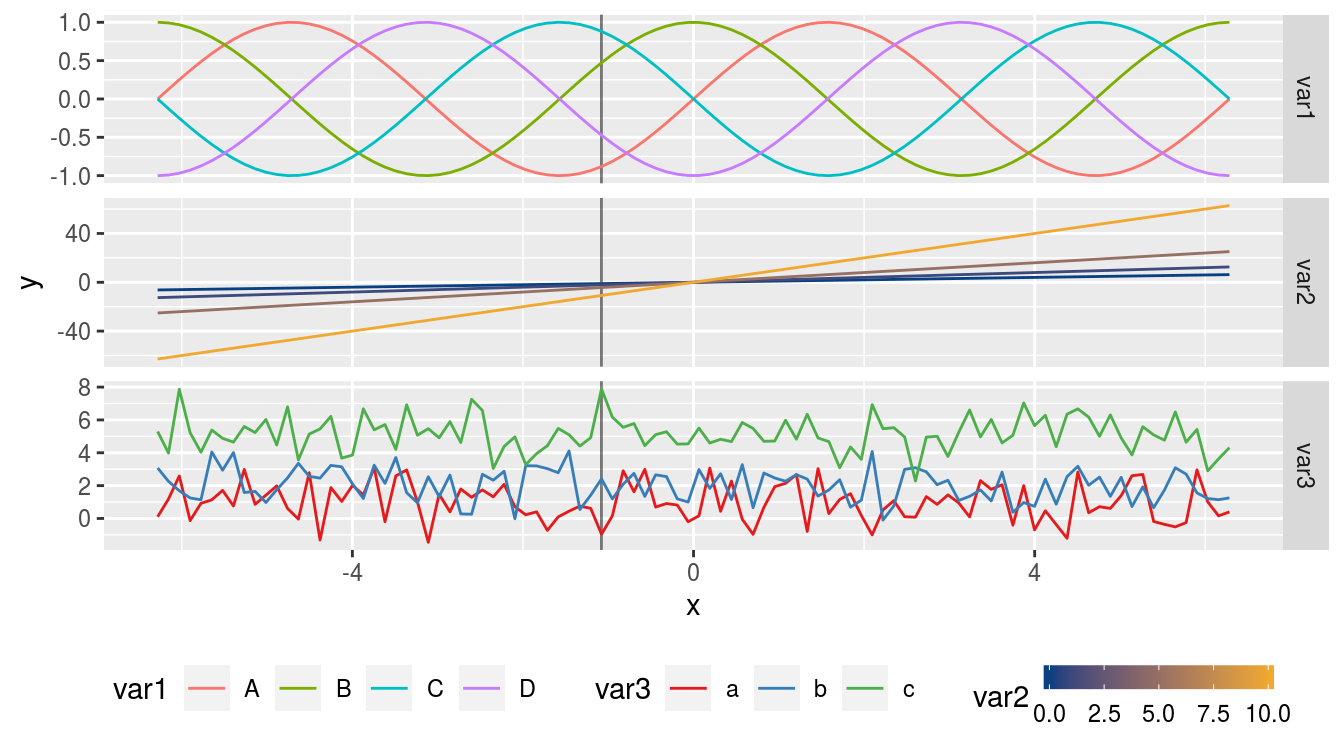
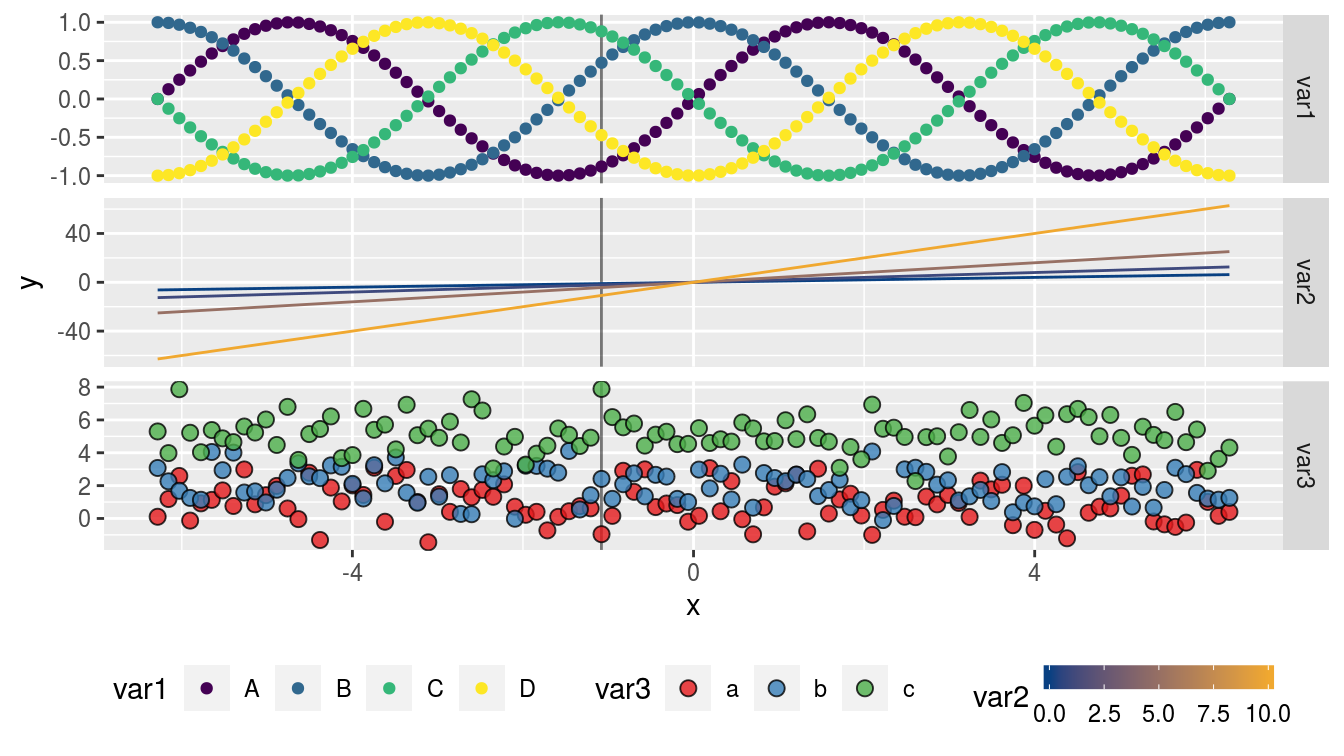
include factory_geom_point

diff --git a/docs/articles/geomfactory.html b/docs/articles/geomfactory.html
@@ -31,7 +31,7 @@
       </button>
       <span class="navbar-brand">
         <a class="navbar-link" href="../index.html">geomfactory</a>
-        <span class="version label label-default" data-toggle="tooltip" data-placement="bottom" title="Released version">0.0.1.0</span>
+        <span class="version label label-default" data-toggle="tooltip" data-placement="bottom" title="Released version">0.0.2.0</span>
       </span>
     </div>
 
@@ -91,21 +91,22 @@
 <p>The aim is <em>NOT to overlay</em> several unrelated data sets, but to use the ggplot facet functions to put them in the same context:</p>
 <div class="sourceCode" id="cb1"><pre class="sourceCode r"><code class="sourceCode r"><a class="sourceLine" id="cb1-1" data-line-number="1"><span class="kw"><a href="https://www.rdocumentation.org/packages/base/topics/library">library</a></span>(geomfactory)</a>
 <a class="sourceLine" id="cb1-2" data-line-number="2"><span class="kw"><a href="https://www.rdocumentation.org/packages/base/topics/ls">ls</a></span>(<span class="kw"><a href="https://www.rdocumentation.org/packages/base/topics/as.environment">as.environment</a></span>(<span class="st">"package:geomfactory"</span>))</a></code></pre></div>
-<pre><code>## [1] "factory_geom_line"</code></pre>
-<p>After loading the package, currently there is only one new function: <code><a href="../reference/factory_geom_line.html">factory_geom_line()</a></code>. This is our <em>geom_factory</em> that will create new <code>geom_line()</code> variations that will work on a alternative color scale. The function also creates according scales <code>scale_*()</code> (one discrete, one continuous) as well as the needed color-bar guide <code>guide_colourbar_*()</code>.</p>
+<pre><code>## [1] "factory_geom_line"  "factory_geom_point"</code></pre>
+<p>After loading the package, currently there are only two new functions: <code><a href="../reference/factory_geom_line.html">factory_geom_line()</a></code> &amp; <code><a href="../reference/factory_geom_point.html">factory_geom_point()</a></code>. This are our <em>geom_factorys</em> that will create new <code>geom_line()</code> (or <code>geom_point()</code>) variations that will work on a alternative color scale. The function also creates according scales <code>scale_*()</code> (one discrete, one continuous) as well as the needed color-bar guide <code>guide_colourbar_*()</code>.</p>
 <p>(<em>This might expand in the future to also include other geoms.</em>)</p>
 <div class="sourceCode" id="cb3"><pre class="sourceCode r"><code class="sourceCode r"><a class="sourceLine" id="cb3-1" data-line-number="1"><span class="kw"><a href="../reference/factory_geom_line.html">factory_geom_line</a></span>(<span class="st">'var2'</span>)</a>
 <a class="sourceLine" id="cb3-2" data-line-number="2"><span class="kw"><a href="https://www.rdocumentation.org/packages/base/topics/ls">ls</a></span>(.GlobalEnv)</a></code></pre></div>
 <pre><code>## [1] "geom_line_var2"        "GeomLine_var2"         "guide_colourbar_var2" 
 ## [4] "scale_var2_continuous" "scale_var2_manual"</code></pre>
 <p>We can do this for as may additional color scales as we need (using a different name for each scale).</p>
-<div class="sourceCode" id="cb5"><pre class="sourceCode r"><code class="sourceCode r"><a class="sourceLine" id="cb5-1" data-line-number="1"><span class="kw"><a href="../reference/factory_geom_line.html">factory_geom_line</a></span>(<span class="st">'var3'</span>)</a>
+<div class="sourceCode" id="cb5"><pre class="sourceCode r"><code class="sourceCode r"><a class="sourceLine" id="cb5-1" data-line-number="1"><span class="kw"><a href="../reference/factory_geom_point.html">factory_geom_point</a></span>(<span class="st">'var3'</span>)</a>
 <a class="sourceLine" id="cb5-2" data-line-number="2"><span class="kw"><a href="https://www.rdocumentation.org/packages/base/topics/ls">ls</a></span>(.GlobalEnv)</a></code></pre></div>
-<pre><code>##  [1] "geom_line_var2"        "GeomLine_var2"        
-##  [3] "geom_line_var3"        "GeomLine_var3"        
-##  [5] "guide_colourbar_var2"  "guide_colourbar_var3" 
-##  [7] "scale_var2_continuous" "scale_var2_manual"    
-##  [9] "scale_var3_continuous" "scale_var3_manual"</code></pre>
+<pre><code>##  [1] "geom_line_var2"          "GeomLine_var2"          
+##  [3] "geom_point_var3"         "GeomPoint_var3"         
+##  [5] "guide_colourbar_var2"    "guide_colourbar_var3"   
+##  [7] "scale_var2_continuous"   "scale_var2_manual"      
+##  [9] "scale_var3_c_continuous" "scale_var3_c_manual"    
+## [11] "scale_var3_f_continuous" "scale_var3_f_manual"</code></pre>
 </div>
 <div id="example" class="section level2">
 <h2 class="hasAnchor">
@@ -144,15 +145,21 @@
 <a class="sourceLine" id="cb8-13" data-line-number="13"><span class="st">  </span><span class="kw">gather</span>(<span class="dt">key =</span> <span class="st">'var3'</span>,<span class="dt">value =</span> <span class="st">'y'</span>,<span class="dv">2</span><span class="op">:</span><span class="dv">4</span>) <span class="op">%&gt;%</span></a>
 <a class="sourceLine" id="cb8-14" data-line-number="14"><span class="st">  </span><span class="kw">mutate</span>(<span class="dt">var =</span> <span class="st">'var3'</span>)</a></code></pre></div>
 <p>Finally, we can plot the three data sets in context while keeping their super important color scheme. We can also highlight the <em>crazy outlier</em> of the class <strong>c</strong> within <strong>var3</strong>:</p>
-<div class="sourceCode" id="cb9"><pre class="sourceCode r"><code class="sourceCode r"><a class="sourceLine" id="cb9-1" data-line-number="1"><span class="kw">ggplot</span>(data1, <span class="kw">aes</span>(x,y))<span class="op">+</span></a>
-<a class="sourceLine" id="cb9-2" data-line-number="2"><span class="st">  </span><span class="kw">geom_vline</span>(<span class="dt">xintercept =</span> <span class="fl">-1.08</span>, <span class="dt">color =</span> <span class="kw"><a href="https://www.rdocumentation.org/packages/grDevices/topics/rgb">rgb</a></span>(<span class="dv">0</span>,<span class="dv">0</span>,<span class="dv">0</span>,.<span class="dv">5</span>))<span class="op">+</span></a>
-<a class="sourceLine" id="cb9-3" data-line-number="3"><span class="st">  </span><span class="kw">geom_line</span>(<span class="kw">aes</span>(<span class="dt">color =</span> var1))<span class="op">+</span></a>
-<a class="sourceLine" id="cb9-4" data-line-number="4"><span class="st">  </span><span class="kw">geom_line_var2</span>(<span class="dt">data =</span> data2, <span class="kw">aes</span>(<span class="dt">var2 =</span> var2, <span class="dt">group =</span> var2))<span class="op">+</span></a>
-<a class="sourceLine" id="cb9-5" data-line-number="5"><span class="st">  </span><span class="kw">geom_line_var3</span>(<span class="dt">data =</span> data3, <span class="kw">aes</span>(<span class="dt">var3 =</span> var3))<span class="op">+</span></a>
-<a class="sourceLine" id="cb9-6" data-line-number="6"><span class="st">  </span><span class="kw">scale_var3_manual</span>(<span class="dt">values =</span> RColorBrewer<span class="op">::</span><span class="kw"><a href="https://www.rdocumentation.org/packages/RColorBrewer/topics/ColorBrewer">brewer.pal</a></span>(<span class="dv">3</span>,<span class="st">'Set1'</span>)) <span class="op">+</span></a>
-<a class="sourceLine" id="cb9-7" data-line-number="7"><span class="st">  </span><span class="kw">guides</span>(<span class="dt">var2 =</span> <span class="kw">guide_colourbar_var2</span>(<span class="dt">barheight =</span> <span class="kw">unit</span>(<span class="dv">9</span>,<span class="st">'pt'</span>)))<span class="op">+</span></a>
-<a class="sourceLine" id="cb9-8" data-line-number="8"><span class="st">  </span><span class="kw">facet_grid</span>(var<span class="op">~</span>.,<span class="dt">scales =</span> <span class="st">'free'</span>)<span class="op">+</span></a>
-<a class="sourceLine" id="cb9-9" data-line-number="9"><span class="st">  </span><span class="kw">theme</span>(<span class="dt">legend.position =</span> <span class="st">'bottom'</span>)</a></code></pre></div>
+<div class="sourceCode" id="cb9"><pre class="sourceCode r"><code class="sourceCode r"><a class="sourceLine" id="cb9-1" data-line-number="1">clr_<span class="dv">1</span> &lt;-<span class="st"> </span>viridis<span class="op">::</span><span class="kw"><a href="https://www.rdocumentation.org/packages/viridis/topics/reexports">viridis</a></span>(<span class="dv">4</span>)</a>
+<a class="sourceLine" id="cb9-2" data-line-number="2">clr_<span class="dv">3</span> &lt;-<span class="st"> </span>RColorBrewer<span class="op">::</span><span class="kw"><a href="https://www.rdocumentation.org/packages/RColorBrewer/topics/ColorBrewer">brewer.pal</a></span>(<span class="dv">3</span>,<span class="st">'Set1'</span>)</a>
+<a class="sourceLine" id="cb9-3" data-line-number="3"></a>
+<a class="sourceLine" id="cb9-4" data-line-number="4"><span class="kw">ggplot</span>(data1, <span class="kw">aes</span>(x,y))<span class="op">+</span></a>
+<a class="sourceLine" id="cb9-5" data-line-number="5"><span class="st">  </span><span class="kw">geom_vline</span>(<span class="dt">xintercept =</span> <span class="fl">-1.08</span>, <span class="dt">color =</span> <span class="kw"><a href="https://www.rdocumentation.org/packages/grDevices/topics/rgb">rgb</a></span>(<span class="dv">0</span>,<span class="dv">0</span>,<span class="dv">0</span>,.<span class="dv">5</span>))<span class="op">+</span></a>
+<a class="sourceLine" id="cb9-6" data-line-number="6"><span class="st">  </span><span class="kw">geom_point</span>(<span class="kw">aes</span>(<span class="dt">color =</span> var1))<span class="op">+</span></a>
+<a class="sourceLine" id="cb9-7" data-line-number="7"><span class="st">  </span><span class="kw">geom_line_var2</span>(<span class="dt">data =</span> data2, <span class="kw">aes</span>(<span class="dt">var2 =</span> var2, <span class="dt">group =</span> var2))<span class="op">+</span></a>
+<a class="sourceLine" id="cb9-8" data-line-number="8"><span class="st">  </span><span class="kw">geom_point_var3</span>(<span class="dt">data =</span> data3, <span class="kw">aes</span>(<span class="dt">var3_f =</span> var3), </a>
+<a class="sourceLine" id="cb9-9" data-line-number="9">                  <span class="dt">shape =</span> <span class="dv">21</span>, <span class="dt">size =</span> <span class="fl">2.5</span>,<span class="dt">alpha =</span> <span class="fl">.8</span>)<span class="op">+</span></a>
+<a class="sourceLine" id="cb9-10" data-line-number="10"><span class="st">  </span><span class="kw">scale_color_manual</span>(<span class="dt">values =</span> clr_<span class="dv">1</span>)<span class="op">+</span></a>
+<a class="sourceLine" id="cb9-11" data-line-number="11"><span class="st">  </span><span class="kw">scale_var3_f_manual</span>(<span class="dt">values =</span> clr_<span class="dv">3</span>) <span class="op">+</span></a>
+<a class="sourceLine" id="cb9-12" data-line-number="12"><span class="st">  </span><span class="kw">guides</span>(<span class="dt">var2 =</span> <span class="kw">guide_colourbar_var2</span>(<span class="dt">barheight =</span> <span class="kw">unit</span>(<span class="dv">9</span>,<span class="st">'pt'</span>)),</a>
+<a class="sourceLine" id="cb9-13" data-line-number="13">         <span class="dt">var3_f =</span> <span class="kw">guide_legend</span>(<span class="dt">override.aes =</span> <span class="kw"><a href="https://www.rdocumentation.org/packages/base/topics/list">list</a></span>(<span class="dt">fill =</span> clr_<span class="dv">3</span>)))<span class="op">+</span></a>
+<a class="sourceLine" id="cb9-14" data-line-number="14"><span class="st">  </span><span class="kw">facet_grid</span>(var<span class="op">~</span>.,<span class="dt">scales =</span> <span class="st">'free'</span>)<span class="op">+</span></a>
+<a class="sourceLine" id="cb9-15" data-line-number="15"><span class="st">  </span><span class="kw">theme</span>(<span class="dt">legend.position =</span> <span class="st">'bottom'</span>)</a></code></pre></div>
 <p><img src="geomfactory_files/figure-html/unnamed-chunk-7-1.png" width="672"></p>
 <hr>
 <center>

diff --git a/docs/reference/factory_geom_point.html b/docs/reference/factory_geom_point.html
@@ -6,7 +6,7 @@
 <meta http-equiv="X-UA-Compatible" content="IE=edge">
 <meta name="viewport" content="width=device-width, initial-scale=1.0">
 
-<title>Articles • geomfactory</title>
+<title>Create an alternative color aesthetic for geom_point — factory_geom_point • geomfactory</title>
 
 <!-- jquery -->
 <script src="https://cdnjs.cloudflare.com/ajax/libs/jquery/3.3.1/jquery.min.js" integrity="sha256-FgpCb/KJQlLNfOu91ta32o/NMZxltwRo8QtmkMRdAu8=" crossorigin="anonymous"></script>
@@ -30,7 +30,9 @@
 
 
 
-<meta property="og:title" content="Articles" />
+<meta property="og:title" content="Create an alternative color aesthetic for geom_point — factory_geom_point" />
+
+<meta property="og:description" content="Create an alternative color aesthetic for geom_point" />
 
 <meta property="og:image" content="/logo.png" />
 <meta name="twitter:card" content="summary" />
@@ -50,7 +52,7 @@
   </head>
 
   <body>
-    <div class="container template-article-index">
+    <div class="container template-reference-topic">
       <header>
       <div class="navbar navbar-default navbar-fixed-top" role="navigation">
   <div class="container">
@@ -102,17 +104,47 @@
 <div class="row">
   <div class="col-md-9 contents">
     <div class="page-header">
-      <h1>Articles</h1>
+    <h1>Create an alternative color aesthetic for geom_point</h1>
+    <small class="dont-index">Source: <a href='https://github.com/k-hench/geomfactory/blob/master/R/geom_factory_point.R'><code>R/geom_factory_point.R</code></a></small>
+    <div class="hidden name"><code>factory_geom_point.Rd</code></div>
     </div>
 
-    <div class="section ">
-      <h3>All vignettes</h3>
-      <p class="section-desc"></p>
-
-      <ul>
-        <li><a href="geomfactory.html">The geomfactory package</a></li>
-      </ul>
+    <div class="ref-description">
+    
+    <p>Create an alternative color aesthetic for geom_point</p>
+    
     </div>
+
+    <pre class="usage"><span class='fu'>factory_geom_point</span>(<span class='no'>aes_name</span>)</pre>
+    
+    <h2 class="hasAnchor" id="arguments"><a class="anchor" href="#arguments"></a>Arguments</h2>
+    <table class="ref-arguments">
+    <colgroup><col class="name" /><col class="desc" /></colgroup>
+    <tr>
+      <th>aes_name</th>
+      <td><p>string skalar, the name of the new geom</p></td>
+    </tr>
+    </table>
+    
+    <h2 class="hasAnchor" id="details"><a class="anchor" href="#details"></a>Details</h2>
+
+    <p>The newly created aesthetics are then <code>test_c</code> (color) and <code>test_f</code> (fill).</p>
+    
+
+    <h2 class="hasAnchor" id="examples"><a class="anchor" href="#examples"></a>Examples</h2>
+    <pre class="examples"><div class='input'><span class='fu'>factory_geom_point</span>(<span class='st'>'var3'</span>)</div><div class='output co'>#&gt; <span class='warning'>Warning: object 'geom_point_alt' not found</span></div><div class='output co'>#&gt; <span class='warning'>Warning: object 'GeomPoint_alt' not found</span></div><div class='output co'>#&gt; <span class='warning'>Warning: object 'scale_alt_c_manual' not found</span></div><div class='output co'>#&gt; <span class='warning'>Warning: object 'scale_alt_f_manual' not found</span></div><div class='output co'>#&gt; <span class='warning'>Warning: object 'scale_alt_c_continuous' not found</span></div><div class='output co'>#&gt; <span class='warning'>Warning: object 'scale_alt_f_continuous' not found</span></div><div class='output co'>#&gt; <span class='warning'>Warning: object 'guide_colourbar_alt' not found</span></div><div class='input'>
+</div></pre>
+  </div>
+  <div class="col-md-3 hidden-xs hidden-sm" id="sidebar">
+    <h2>Contents</h2>
+    <ul class="nav nav-pills nav-stacked">
+      <li><a href="#arguments">Arguments</a></li>
+      
+      <li><a href="#details">Details</a></li>
+      
+      <li><a href="#examples">Examples</a></li>
+    </ul>
+
   </div>
 </div>
 

diff --git a/docs/reference/index.html b/docs/reference/index.html
@@ -63,7 +63,7 @@
       </button>
       <span class="navbar-brand">
         <a class="navbar-link" href="../index.html">geomfactory</a>
-        <span class="version label label-default" data-toggle="tooltip" data-placement="bottom" title="Released version">0.0.1.0</span>
+        <span class="version label label-default" data-toggle="tooltip" data-placement="bottom" title="Released version">0.0.2.0</span>
       </span>
     </div>
 
@@ -126,6 +126,12 @@
           <p><code><a href="factory_geom_line.html">factory_geom_line()</a></code> </p>
         </td>
         <td><p>Create an alternative color aesthetic</p></td>
+      </tr><tr>
+        
+        <td>
+          <p><code><a href="factory_geom_point.html">factory_geom_point()</a></code> </p>
+        </td>
+        <td><p>Create an alternative color aesthetic for geom_point</p></td>
       </tr>
     </tbody>
     </table>

diff --git a/docs/reference/factory_geom_line.html b/docs/reference/factory_geom_line.html
@@ -65,7 +65,7 @@
       </button>
       <span class="navbar-brand">
         <a class="navbar-link" href="../index.html">geomfactory</a>
-        <span class="version label label-default" data-toggle="tooltip" data-placement="bottom" title="Released version">0.0.1.0</span>
+        <span class="version label label-default" data-toggle="tooltip" data-placement="bottom" title="Released version">0.0.2.0</span>
       </span>
     </div>
 

diff --git a/docs/authors.html b/docs/authors.html
@@ -63,7 +63,7 @@
       </button>
       <span class="navbar-brand">
         <a class="navbar-link" href="index.html">geomfactory</a>
-        <span class="version label label-default" data-toggle="tooltip" data-placement="bottom" title="Released version">0.0.1.0</span>
+        <span class="version label label-default" data-toggle="tooltip" data-placement="bottom" title="Released version">0.0.2.0</span>
       </span>
     </div>
 

diff --git a/docs/index.html b/docs/index.html
@@ -32,7 +32,7 @@
       </button>
       <span class="navbar-brand">
         <a class="navbar-link" href="index.html">geomfactory</a>
-        <span class="version label label-default" data-toggle="tooltip" data-placement="bottom" title="Released version">0.0.1.0</span>
+        <span class="version label label-default" data-toggle="tooltip" data-placement="bottom" title="Released version">0.0.2.0</span>
       </span>
     </div>
 
